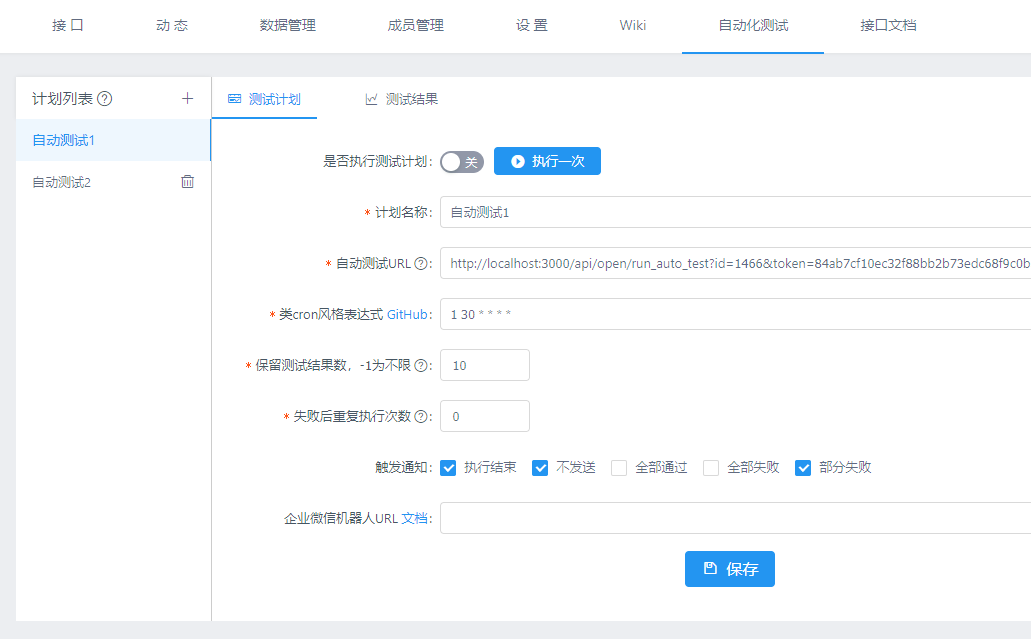
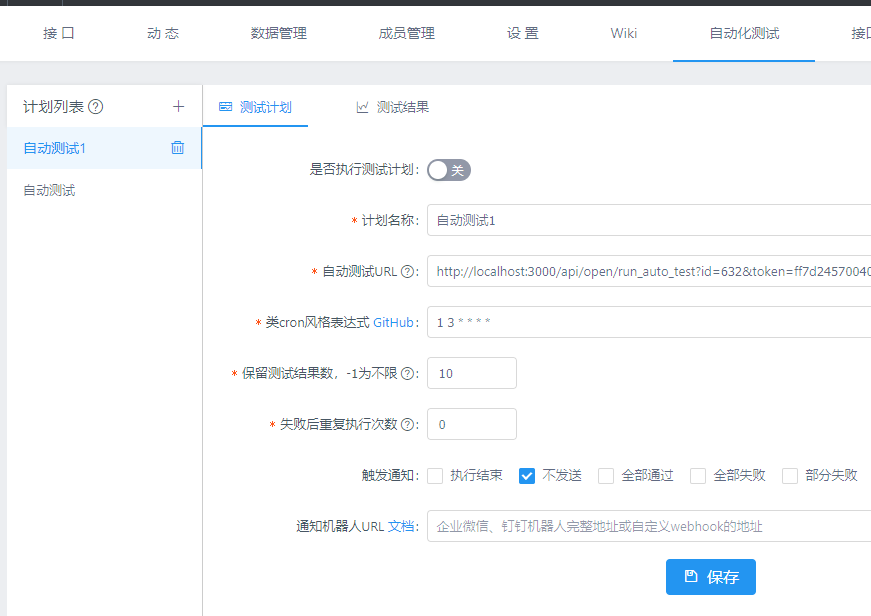
feat: 结果通知支持更多方式

diff --git a/AutoTestPage/Plan/index.js b/AutoTestPage/Plan/index.js
@@ -282,20 +282,10 @@ export default class Add extends Component {
               />
               )}
             </FormItem>
-            {/* <FormItem {...formItemLayout} label="类型通知">
-              {getFieldDecorator("notice_client", {
-                initialValue: "workWX"
-              })(
-                <Radio.Group onChange={this.onChange}>
-                  <Radio value="email">邮箱</Radio>
-                  <Radio value="workWX">企业微信</Radio>
-                </Radio.Group>
-              )}
-            </FormItem> */}
-            <FormItem {...formItemLayout} label={<span>企业微信机器人URL&nbsp;<a href="https://work.weixin.qq.com/api/doc/90000/90136/91770">文档</a></span>}>
+            <FormItem {...formItemLayout} label={<span>通知机器人URL&nbsp;<a href="https://github.com/congqiu/yapi-plugin-auto-test/blob/master/README.md#%E6%B5%8B%E8%AF%95%E8%AE%A1%E5%88%92">文档</a></span>}>
               {getFieldDecorator("notifier_url", {
                 initialValue: this.state.notifier_url
-              })(<Input />)}
+              })(<Input placeholder="企业微信、钉钉机器人完整地址或自定义webhook的地址" />)}
             </FormItem>
           </div>
           <FormItem {...tailFormItemLayout}>

diff --git a/utils/tools.js b/utils/tools.js
@@ -8,3 +8,39 @@ exports.sendWorkWX = async (url, content) => {
     }
   });
 };
+
+const sendWWMessage = async (url, content) => {
+  return await axios.post(url, {
+    "msgtype": "markdown",
+    "markdown": {
+      content
+    }
+  });
+};
+
+const sendDingTalk = async (url, title, text) => {
+  return await axios.post(url, {
+    "msgtype": "markdown",
+    "markdown": {
+      title,
+      text
+    }
+  });
+};
+
+const sendWebhook = async (url, title, content) => {
+  return await axios.post(url, {
+    title,
+    content
+  });
+};
+
+exports.sendMessage = async (url, title, content) => {
+  if (url.trim().indexOf("https://qyapi.weixin.qq.com") === 0) {
+    return await sendWWMessage(url, content);
+  }
+  if (url.trim().indexOf("https://oapi.dingtalk.com/robot/send") === 0) {
+    return await sendDingTalk(url, title , content);
+  }
+  return await sendWebhook(url, content)
+}

diff --git a/controllers/result.js b/controllers/result.js
@@ -184,7 +184,7 @@ class testResultController extends openController {
           let content = `测试结果：${plan.plan_name} 执行<font color="${failedNum === 0 ? 'info' : 'warning'}">${testData.status}</font>\n${reportsResult.message.msg}
             \n访问以下[链接查看](${originUrl}/api/open/plugin/test/result?id=${saveResult._id})测试结果详情
             `;
-          tools.sendWorkWX(notifier, content);
+          tools.sendMessage(notifier, `【${projectData.name}】的测试计划【${plan.plan_name}】执行通知`, content);
         }
       }
 

diff --git a/README.md b/README.md
@@ -26,7 +26,7 @@ yapi-plugin-auto-test
 ![设置测试计划](./screenshot/setting.png)
 用户可以自定义多个测试计划，根据对应的设置项进行测试计划的设置。
 
-自定义通知目前只支持企业微信通知，如果url为空则不发送通知，邮件通知不受触发通知影响。
+通知机器人支持目前支持企业微信机器人、钉钉机器人以及自定义webhook，如果url为空则不发送通知，邮件通知不受触发通知影响。如果是企业微信或钉钉机器人直接复制机器人地址即可。
 
 #### 测试结果
 
@@ -35,6 +35,7 @@ yapi-plugin-auto-test
 
 
 ### 更新
+
 通过yapi-cli更新插件还是比较麻烦的，直接再执行一次命令并不会更新。因为yapi-cli安装插件实际上就是在vendors目录下执行`npm install --registry https://registry.npm.taobao.org yapi-plugin-auto-test`，所以最后会在package.json文件中记录下开始安装的版本号，再次执行安装的还是同一个版本。
 
 执行如下操作可以进行更新：
@@ -43,8 +44,16 @@ yapi-plugin-auto-test
 3. 在`./vendors/`目录中执行命令`NODE_ENV=production ykit pack -m`
 4. 在config.json这层目录下执行命令`yapi plugin --name yapi-plugin-auto-test`后再重启服务器就完成安装指定版本的插件
 
+### 注意事项
+
+1. 企业微信每个机器人发送的消息不能超过20条/分钟，最新内容参考[消息发送频率限制](https://work.weixin.qq.com/api/doc/90000/90136/91770#%E6%B6%88%E6%81%AF%E5%8F%91%E9%80%81%E9%A2%91%E7%8E%87%E9%99%90%E5%88%B6)。
+2. 钉钉每个机器人每分钟最多发送20条，参考[消息发送频率限制](https://ding-doc.dingtalk.com/doc#/serverapi2/qf2nxq)。
 
 ### ChangeLog
+
+#### v1.0.1
+
+* 结果通知支持更多方式
 
 #### v1.0.0
 
